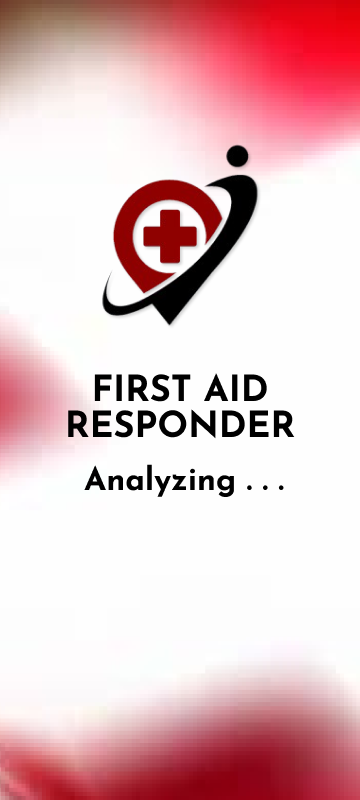
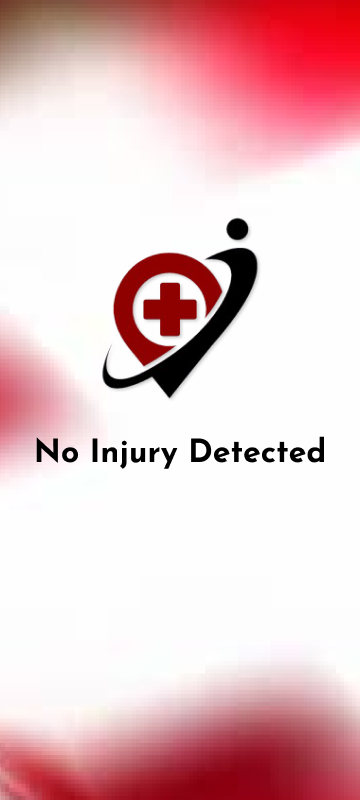
Add files via upload

Changed region(s): [[0.0917, 0.1562, 0.9167, 0.625]]

diff --git a/main.py b/main.py
@@ -103,7 +103,7 @@ class CameraMenu(Screen):
     def detect_injury(self, image_path):  # To be updated of training model
         # Replace with your Roboflow API URL and API Key
         project_name = "wound-assessment"  # Use your project ID here in lowercase, with dashes instead of spaces
-        model_version = "2"  # Specify your model version (e.g., "2" for version 2)
+        model_version = "6"  # Specify your model version (e.g., "2" for version 2)
         api_key = "u20PAsYXkCCxa5vJtLEv"  # Replace with your actual API key
 
         # Formulate the correct API endpoint URL
@@ -119,7 +119,7 @@ class CameraMenu(Screen):
         # Check if the request was successful
         if response.status_code == 200:
             predictions = response.json()
-            #print(predictions)  # Print the entire response to see its structure
+            print(predictions)  # Print the entire response to see its structure
             # Process the predictions and return the wound types
             return self.process_predictions(predictions)
         else:
